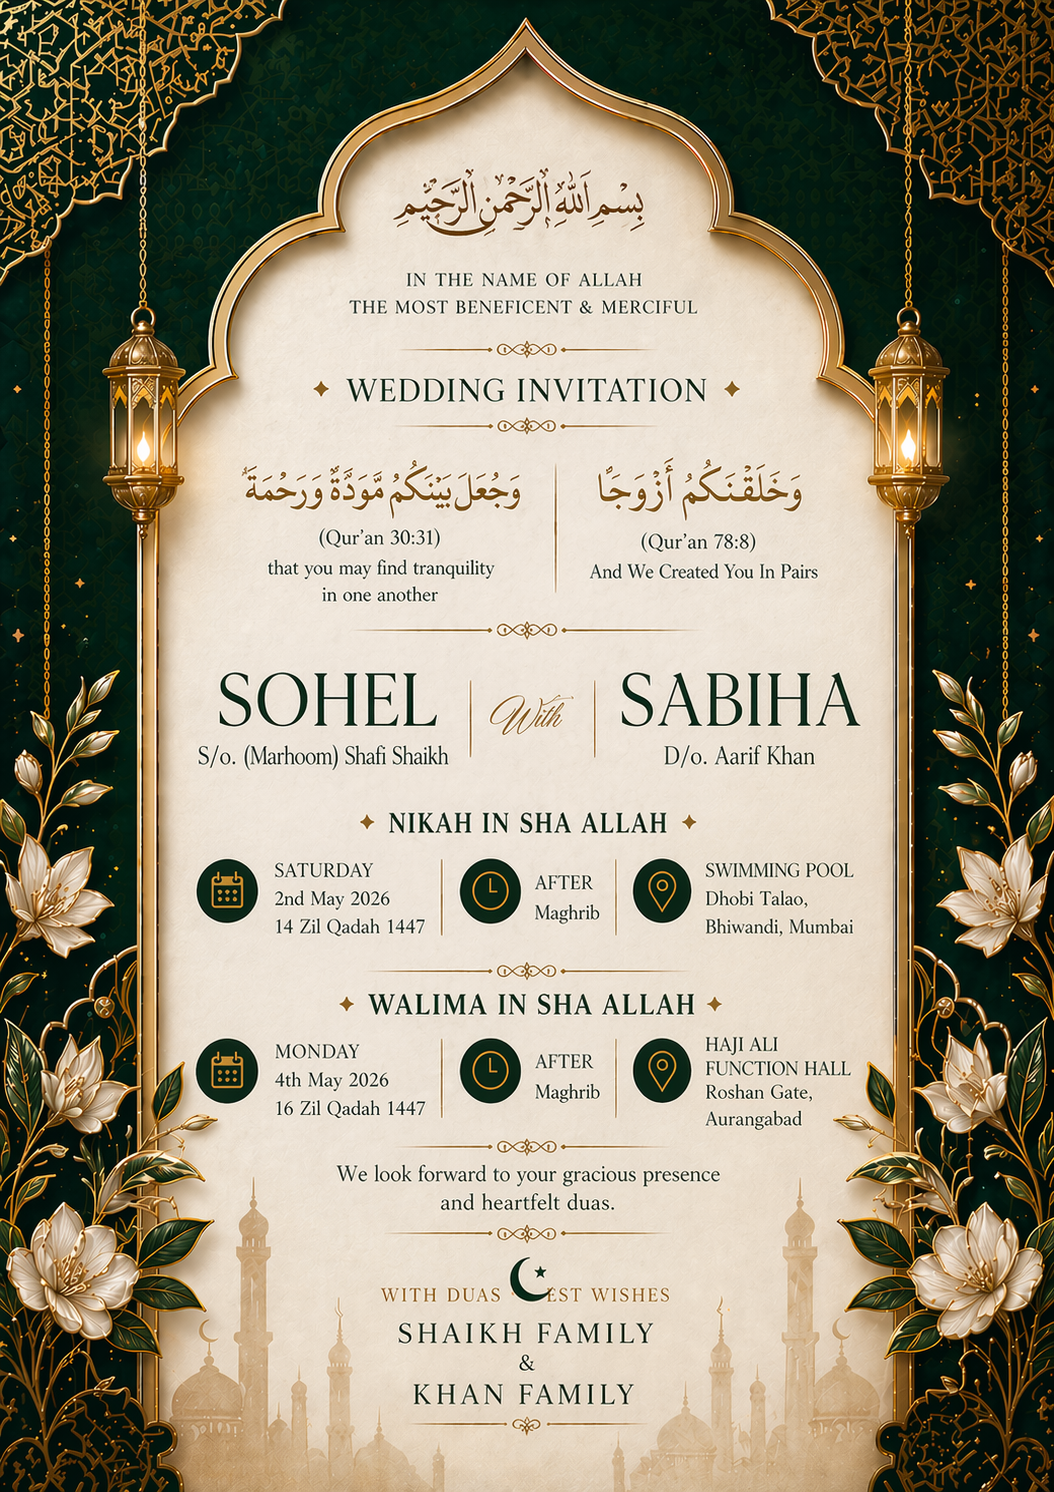
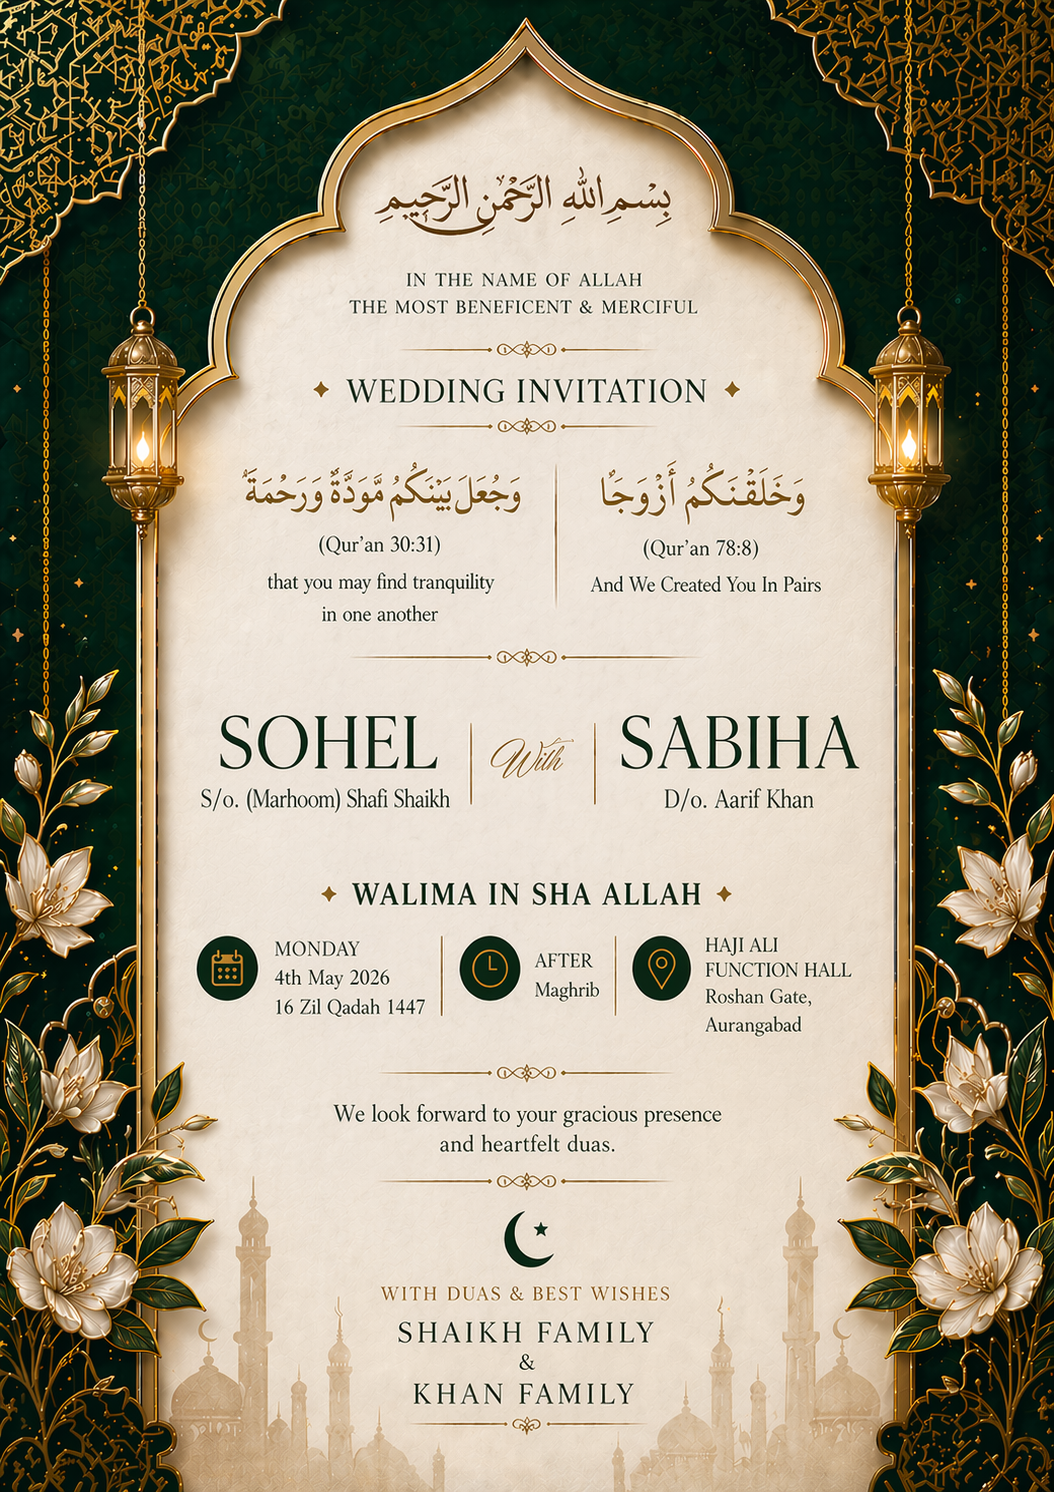
third commit

diff --git a/index.html b/index.html
@@ -168,8 +168,8 @@
             </div>
 
             <div class="event-venue">
-               Swimming Pool, Dhobi Talao Hall,<br>
-               Bhiwandi, Mumbai
+               Haji Ali Function Hall,<br>
+               Roshan Gate, Aurangabad
             </div>
 
 

diff --git a/css/style.css b/css/style.css
@@ -1232,3 +1232,4 @@ body.transition-active .event-subtitle {
   margin-right: 8px;
   font-size: 16px;
 }
+
